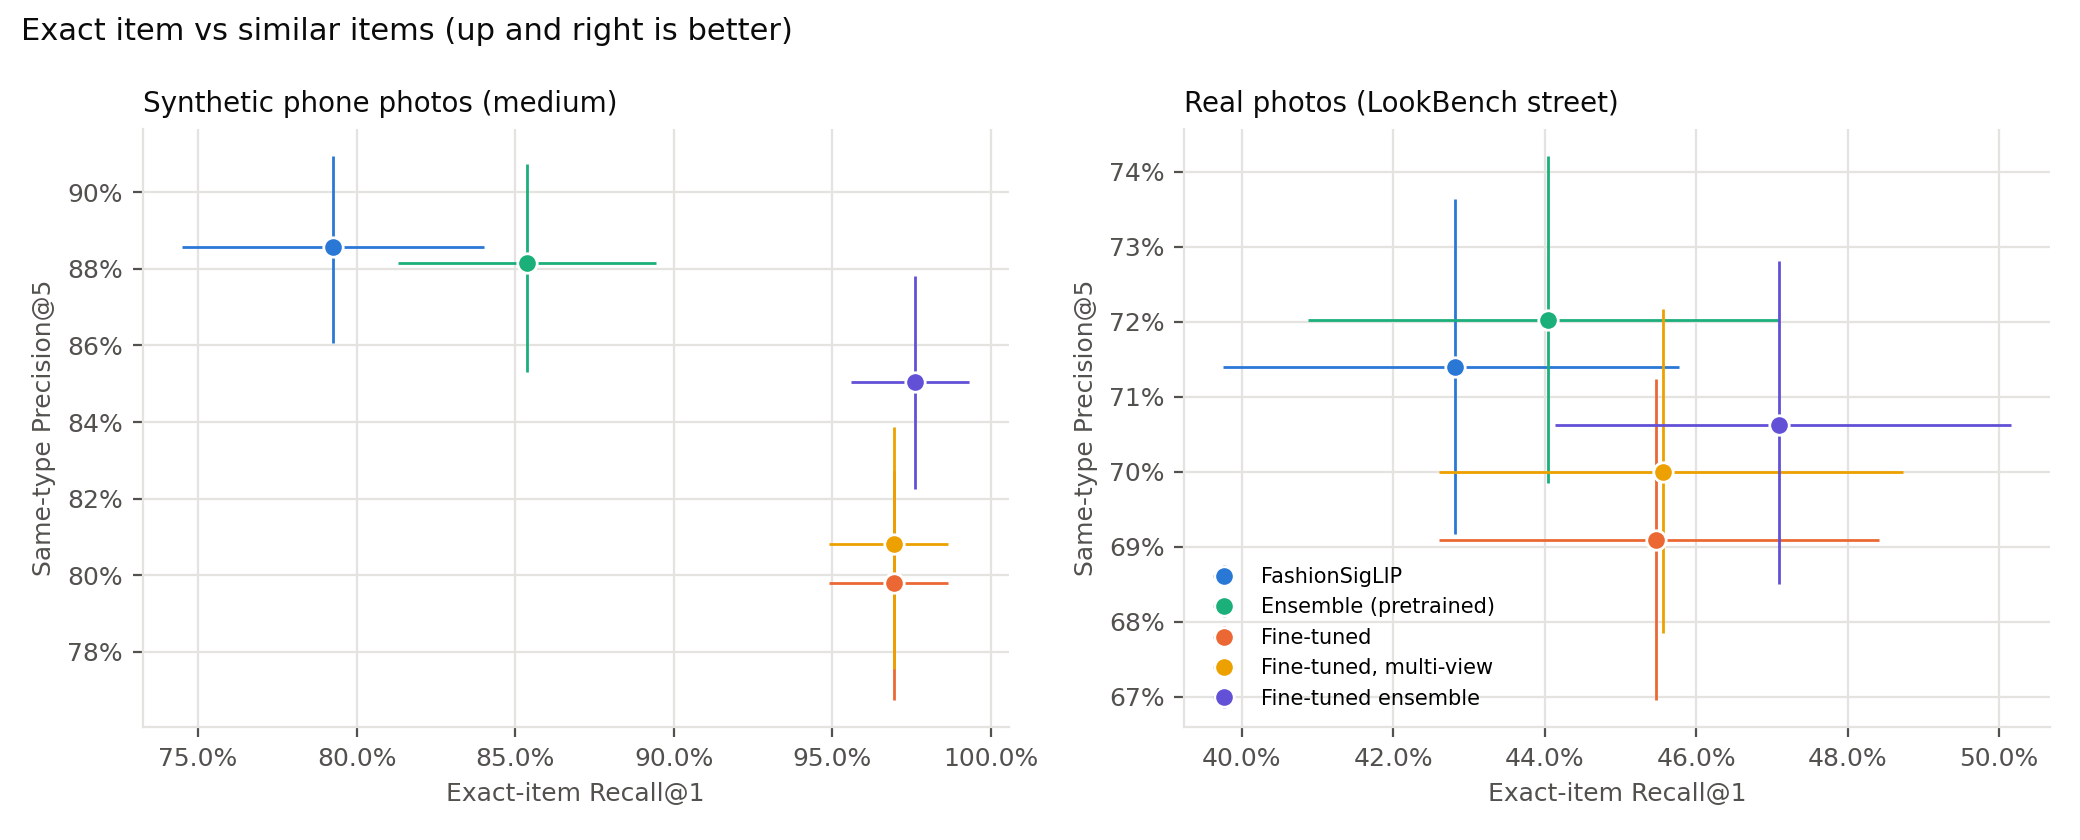
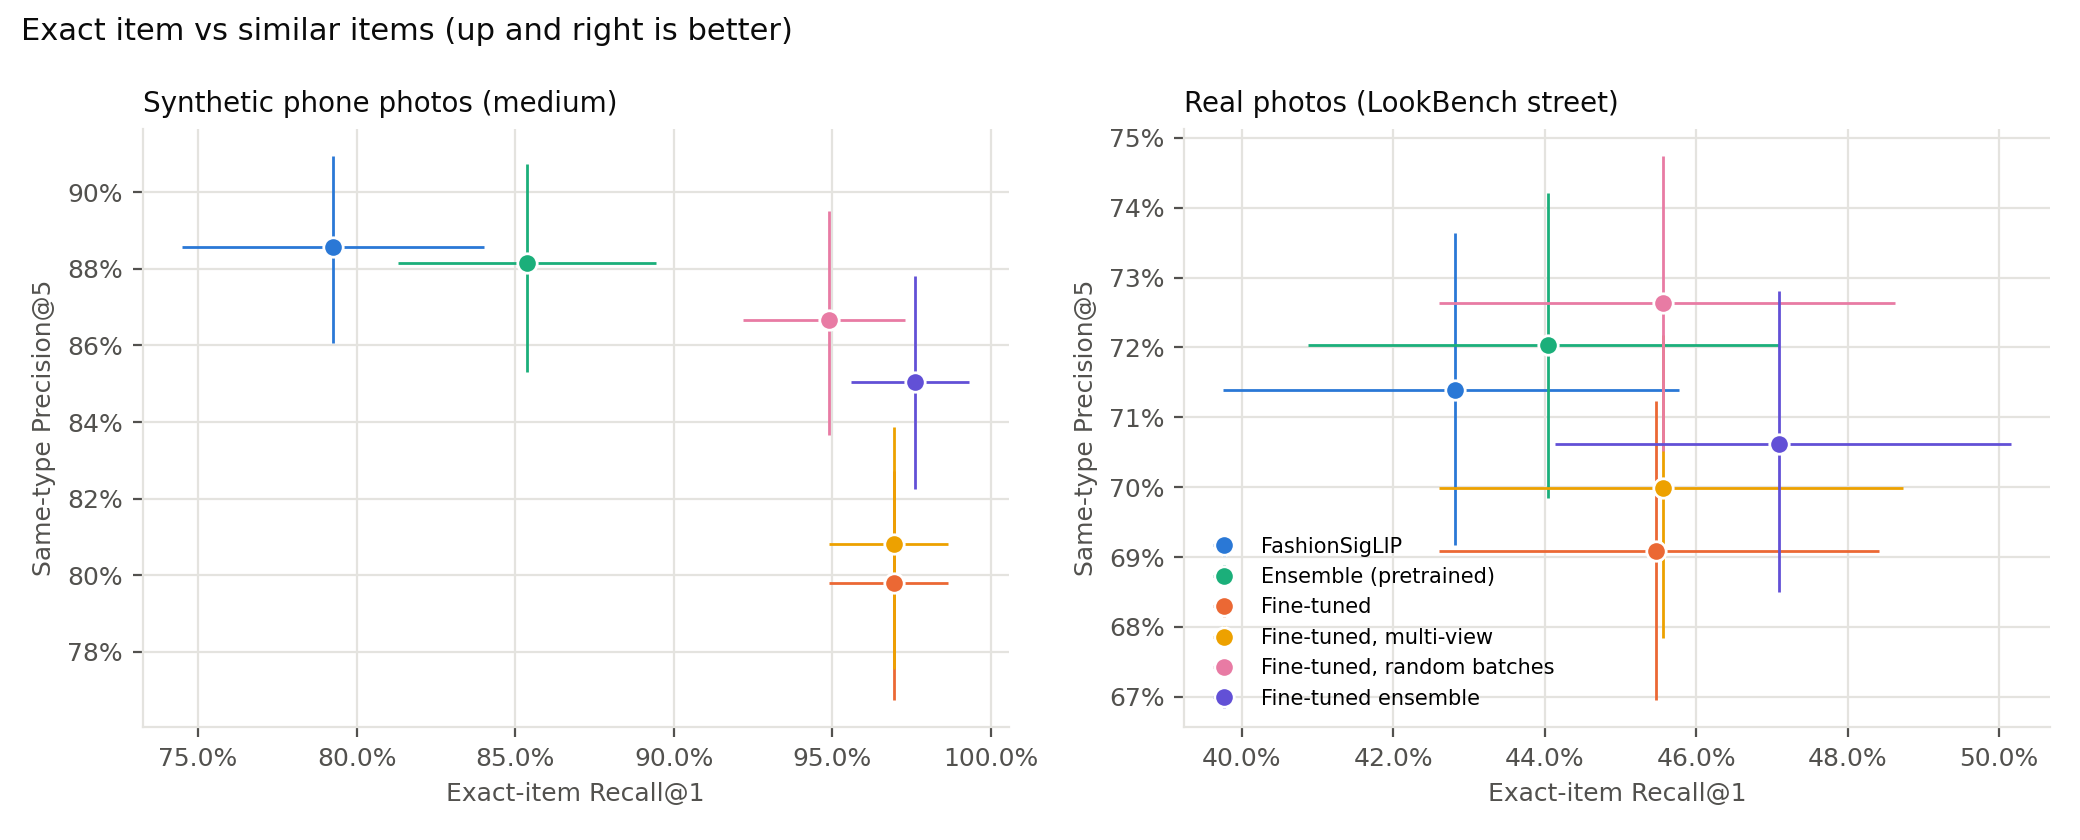
Figures: conformal under shift, per-category coverage, risk control; ablation in Recall vs P@5

diff --git a/report/make_figures.py b/report/make_figures.py
@@ -14,6 +14,9 @@ Figures:
   fig4_resolution.png  same models on 60x80 vs high-res images
   fig5_finetune.png    validation Recall@1 per fine-tuning epoch (+ random-batch ablation if run)
   fig6_recall_vs_p5.png exact-item Recall@1 vs same-type P@5, synthetic and LookBench
+  fig7_conformal_shift.png  conformal coverage on real photos: synthetic vs real calibration, T1 bound
+  fig8_mondrian.png    per-category coverage and set size, standard vs Mondrian
+  fig9_risk.png        risk control: answer rate vs guaranteed wrong-type share
 """
 import os
 
@@ -231,7 +234,7 @@ TRADE = [
     ("ensemble_mv", "Ensemble (pretrained)", AQUA),
     ("finetuned", "Fine-tuned", ORANGE),
     ("finetuned_mv", "Fine-tuned, multi-view", YELLOW),
-    # ("finetuned_random", "Fine-tuned, random batches", MAGENTA),  # add back after the ablation step
+    ("finetuned_random", "Fine-tuned, random batches", MAGENTA),
     ("ensemble_ft_mv", "Fine-tuned ensemble", VIOLET),
 ]
 
@@ -274,6 +277,109 @@ def fig_recall_vs_p5(summary, lookbench_path="results/lookbench_summary.csv"):
                  fontsize=11, color=INK)
     save(fig, "fig6_recall_vs_p5.png")
 
+# models in the conformal figures: (method, label, colour), same colours as above
+CONF = [("fashion_siglip", "FashionSigLIP", BLUE),
+        ("ensemble_mv", "Ensemble (pretrained)", AQUA),
+        ("finetuned_random", "Fine-tuned, random batches", MAGENTA)]
+
+
+def fig_conformal_shift(path="results/conformal_shift.csv", tv_path="results/conformal_tv.csv"):
+    """Coverage on real photos when calibrating on synthetic vs real photos, and the T1 bound."""
+    if not (os.path.exists(path) and os.path.exists(tv_path)):
+        return
+    table = pd.read_csv(path)
+    table = table[(table["alpha"] == 0.1) & (table["method"] == "relative")]
+    tv = pd.read_csv(tv_path)
+    tv = tv[(tv["method"] == "relative") & (tv["bins"] == 50)]
+    fig, (ax1, ax2) = plt.subplots(1, 2, figsize=(10, 4))
+    for i, (method, label, colour) in enumerate(CONF):
+        syn = table[(table["model"] == method) & (table["setting"] == "synthetic_to_real")]
+        real = table[(table["model"] == method) & (table["setting"] == "real_to_real")]
+        bound = tv[tv["model"] == method]
+        if syn.empty or real.empty:
+            continue
+        ax1.bar(i - 0.2, syn["coverage"].iloc[0], width=0.38, color=colour, alpha=0.45)
+        ax1.bar(i + 0.2, real["coverage"].iloc[0], width=0.38, color=colour)
+        if not bound.empty:
+            ax1.plot([i - 0.38, i - 0.02], [bound["bound_at_90"].iloc[0]] * 2, color=INK, linewidth=2)
+        ax2.bar(i, real["median_size"].iloc[0], width=0.6, color=colour)
+        ax2.text(i, real["median_size"].iloc[0], f"{real['median_size'].iloc[0]:.0f}",
+                 ha="center", va="bottom", fontsize=8, color=INK2)
+    ax1.axhline(0.9, color=INK2, linestyle="--", linewidth=1)
+    ax1.text(2.45, 0.905, "target 90%", fontsize=8, color=INK2, ha="right", va="bottom")
+    names = [label.replace(" (", "\n(").replace(", ", ",\n") for _, label, _ in CONF]
+    for ax in (ax1, ax2):
+        ax.set_xticks(range(len(CONF)))
+        ax.set_xticklabels(names, fontsize=8)
+        style(ax)
+    ax1.set_ylim(0, 1)
+    ax1.yaxis.set_major_formatter(matplotlib.ticker.PercentFormatter(1.0))
+    ax1.set_ylabel("Coverage on real photos", color=INK2, fontsize=9)
+    ax1.set_title("Light: calibrated on synthetic. Dark: on real.\nBlack line: T1 bound 0.9 - TV",
+                  loc="left", fontsize=9.5, color=INK)
+    ax2.set_ylabel("Median set size (of 3,278)", color=INK2, fontsize=9)
+    ax2.set_title("Honest set size on real photos\n(calibrated on real)", loc="left",
+                  fontsize=9.5, color=INK)
+    save(fig, "fig7_conformal_shift.png")
+
+
+def fig_mondrian(path="results/conformal_mondrian.csv", model="finetuned_random", min_queries=18):
+    """Per-category coverage, standard vs per-category (Mondrian) calibration."""
+    if not os.path.exists(path):
+        return
+    table = pd.read_csv(path)
+    table = table[(table["model"] == model) & (table["n_queries"] >= min_queries)]
+    table = table.sort_values("coverage_standard")
+    y = range(len(table))
+    fig, (ax1, ax2) = plt.subplots(1, 2, figsize=(10, 5), sharey=True)
+    ax1.plot(table["coverage_standard"], y, "o", color=INK2, label="standard (one calibration)")
+    ax1.plot(table["coverage_mondrian"], y, "o", color=VIOLET, label="per category (Mondrian)")
+    ax1.axvline(0.9, color=INK2, linestyle="--", linewidth=1)
+    ax1.set_yticks(list(y))
+    ax1.set_yticklabels([f"{c} ({n})" for c, n in zip(table["category"], table["n_queries"])], fontsize=8)
+    ax1.xaxis.set_major_formatter(matplotlib.ticker.PercentFormatter(1.0))
+    ax1.set_xlabel("Coverage (target 90%)", color=INK2, fontsize=9)
+    ax1.legend(frameon=False, fontsize=8, loc="upper left")
+    ax1.set_title("Coverage per category", loc="left", fontsize=10, color=INK)
+    ax2.plot(table["median_size_standard"], y, "o", color=INK2)
+    ax2.plot(table["median_size_mondrian"], y, "o", color=VIOLET)
+    ax2.set_xscale("log")
+    ax2.set_xlabel("Median set size (log scale)", color=INK2, fontsize=9)
+    ax2.set_title("Set size per category", loc="left", fontsize=10, color=INK)
+    for ax in (ax1, ax2):
+        style(ax)
+    save(fig, "fig8_mondrian.png")
+
+
+def fig_risk(path="results/conformal_risk.csv"):
+    """T4: how often the app still answers, for each guaranteed level of wrong-type results."""
+    if not os.path.exists(path):
+        return
+    table = pd.read_csv(path)
+    fig, ax = plt.subplots(figsize=(6.5, 4))
+    for method, label, colour in CONF:
+        t = table[table["model"] == method]
+        if t.empty:
+            continue
+        guaranteed = t[t["alpha"] != "no abstention"].copy()
+        guaranteed["alpha"] = guaranteed["alpha"].astype(float)
+        guaranteed = guaranteed.sort_values("alpha")
+        free = t[t["alpha"] == "no abstention"]
+        xs = list(guaranteed["alpha"]) + list(free["loss"])
+        ys = list(guaranteed["answer_rate"]) + list(free["answer_rate"])
+        ax.plot(xs, ys, "-o", color=colour, label=label, markersize=6)
+    ax.set_xlabel("Average share of wrong-type results (guaranteed bound; last point = no abstention)",
+                  color=INK2, fontsize=8.5)
+    ax.set_ylabel("Share of photos the app answers", color=INK2, fontsize=9)
+    ax.xaxis.set_major_formatter(matplotlib.ticker.PercentFormatter(1.0))
+    ax.yaxis.set_major_formatter(matplotlib.ticker.PercentFormatter(1.0))
+    ax.set_ylim(0, 1.05)
+    ax.legend(frameon=False, fontsize=8, loc="lower right")
+    ax.set_title("Risk control on real photos: stricter guarantee = answer less often",
+                 loc="left", fontsize=10, color=INK)
+    style(ax)
+    save(fig, "fig9_risk.png")
+
 
 def save(fig, name):
     os.makedirs(OUT, exist_ok=True)
@@ -291,6 +397,9 @@ def main():
     fig_resolution(summary)
     fig_finetune()
     fig_recall_vs_p5(summary)
+    fig_conformal_shift()
+    fig_mondrian()
+    fig_risk()
 
 
 if __name__ == "__main__":
